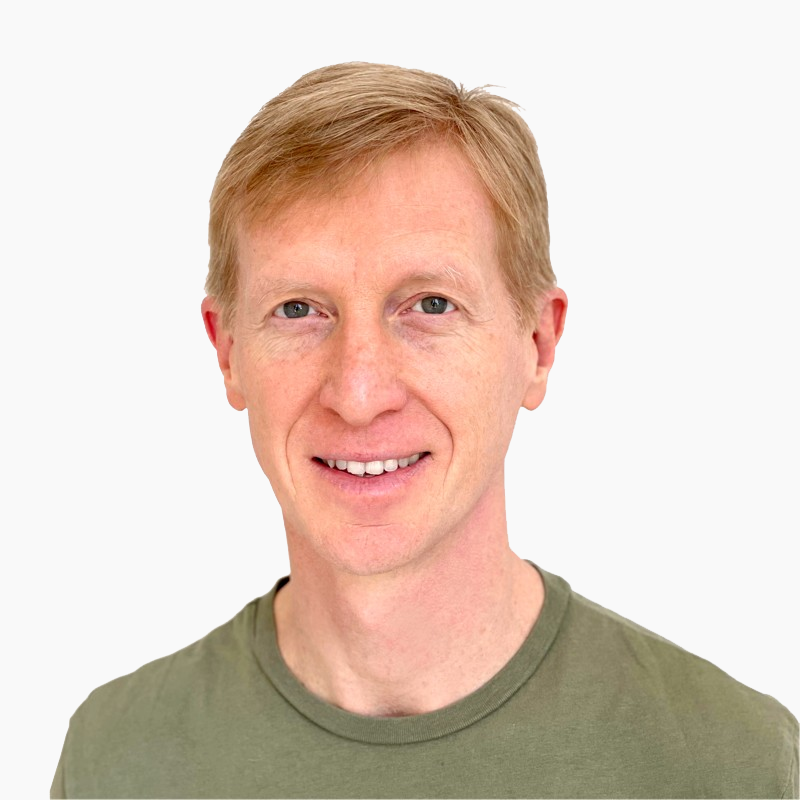
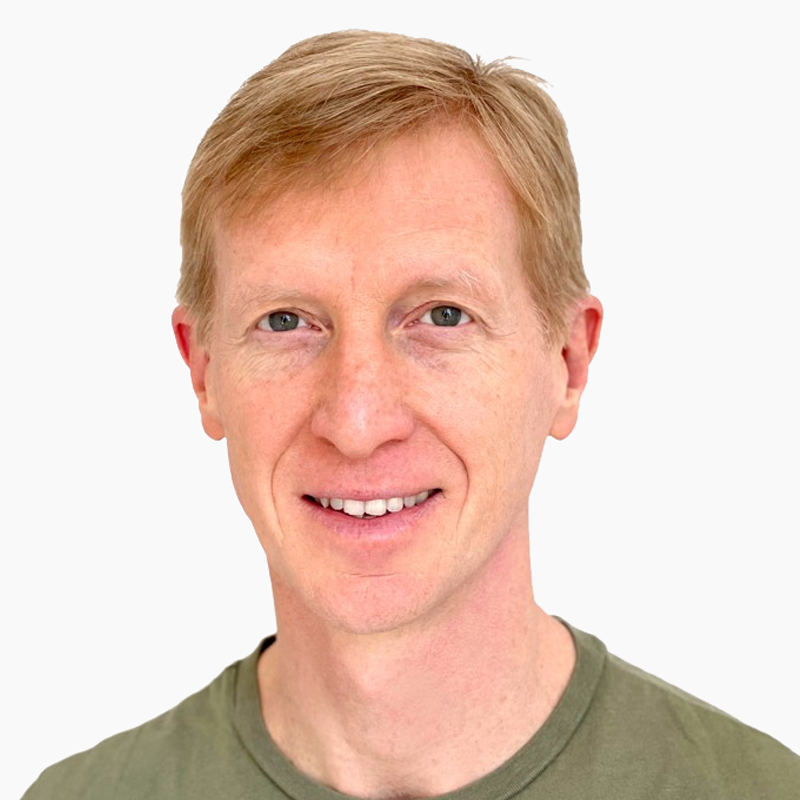
Added linkedin links and updated george_pfp

Changed region(s): [[0.0312, 0.0312, 1.0, 1.0]]

diff --git a/_pages/about.md b/_pages/about.md
@@ -49,8 +49,8 @@ hightlightAbout: "true"
         </div>
         <div class="wrapper">
             <div style="display: flex; align-items: center; justify-content: center; gap: 35pt;">
-                <img src="{{ site.baseurl }}/assets/images/george_pfp.png" style="width: 100pt; height: 100pt;">
-                <img src="{{ site.baseurl }}/assets/images/antonija_pfp.jpeg" style="width: 100pt; height: 100pt;">
+                <a href="https://www.linkedin.com/in/keydesign/"><img src="{{ site.baseurl }}/assets/images/george_pfp.png" style="width: 100pt; height: 100pt;"></a>
+                <a href="https://www.linkedin.com/in/antonija-j-campbell/"><img src="{{ site.baseurl }}/assets/images/antonija_pfp.jpeg" style="width: 100pt; height: 100pt;"></a>
             </div>
             <div style="display: flex; flex-direction: column;">
                 <p>Founded in 2001 by husband-and-wife duo George and Antonija, Keydesign is a global industrial design consultancy. Our journey spans continents, from Boston to Nashville, Silicon Valley (Palo Alto), and finally London, infusing creativity, innovation, and human-centricity into every project.</p>
